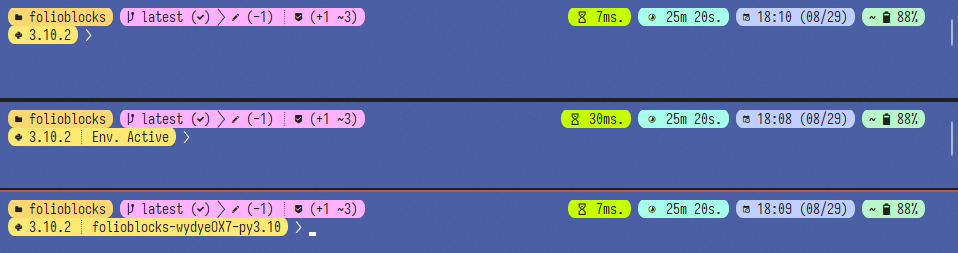
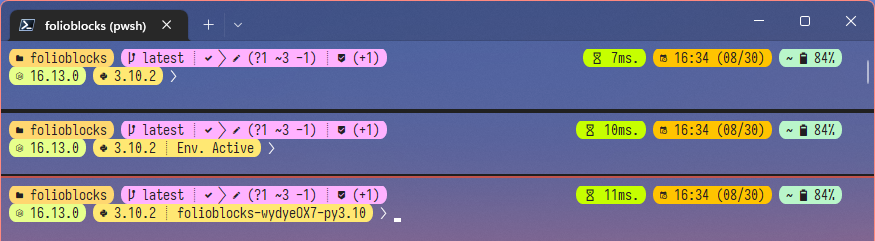
refactor!(*): change env vars prefixes + wakatime parsing function change from `toDecimal` to `int64`.
+ Changelogs:

theme.omp.json

- BREAKING CHANGE(env. vars): Env vars now has a prefix of `DISABLE_SEGMENT` instead of `SEGMENT_DISABLE`.
- project(node): allow hideable segment feature via env vars.
- project(segments): add consistent `trailing_diamond` space to respect the input buffer and other preceeding project segments.
- wakatime(segment): fix condition wherein `.CummulativeTotal.Seconds` is parsed as 0 when using cast function `toDecimal`, used `int64` instead.

package.json

- command: return a string of the command as reference (non-pipeable) instead of executing the command.

README:

- env vars: reflect BREAKING CHANGE to the documentation with ascending env var placements.
- showcase: renew showcase images with the latest upstream of the theme.

diff --git a/README.md b/README.md
@@ -30,22 +30,19 @@ _Designed to be compatible for translucent, dark-and-white influenced background
 
 The theme is designed to be **flexible** as possible by providing users a choice of filling up the following environment variables that allows for a _segment_ to **disappear** or **explicitly otherwise**.
 
-<div align="center">
-
-| Env. Var. (Append `SEGMENT_DISABLE` with prefixes `_`) | Type   | Default Value        | Functionality (Description)                                                                                                                                                                                                                                                                                                                    |
+| Env. Var. (Append `DISABLE_SEGMENT` with prefixes `_`) | Type   | Default Value        | Functionality (Description)                                                                                                                                                                                                                                                                                                                    |
 | ------------------------------------------------------ | ------ | -------------------- | ---------------------------------------------------------------------------------------------------------------------------------------------------------------------------------------------------------------------------------------------------------------------------------------------------------------------------------------------- |
 | \_BATTERY                                              | bool   | **False** _($false)_ | Hides the `BATTERY` segment found on the top-right of the prompt when value is set to **True** (_$true_).                                                                                                                                                                                                                                      |
 | \_DTIME                                                | bool   | **False** _($false)_ | Hides the `DTIME` segment found on the top-right of the prompt when the value is set to **True** (_$true_).                                                                                                                                                                                                                                    |
-| \_PROJECT_PYTHON                                       | bool   | **False** _($false)_ | Hides the `PYTHON` segment found on the bottom-left prompt along with the **input buffer** when the value is set to **True** (_$true_). This ignores the value of `SEGMENT_DISABLE_PROJECT_PYTHON_VENV`.                                                                                                                                       |
+| \_PROJECT_NODE                                         | bool   | **False** _($false)_ | Hides the `NODE` segment found on the bottom-left prompt along with the **input buffer** when the value is set to **True** (_$true_).                                                                                                                                                                                                          |
+| \_PROJECT_PYTHON                                       | bool   | **False** _($false)_ | Hides the `PYTHON` segment found on the bottom-left prompt along with the **input buffer** when the value is set to **True** (_$true_). This ignores the value of `DISABLE_SEGMENT_PROJECT_PYTHON_VENV`.                                                                                                                                       |
 | \_PROJECT_PYTHON_VENV                                  | bool   | **False** _($false)_ | Hides the `VENV` string display after `venv` detection when the value is set to **True** (_$true_). This ignores the value of `SEGMENT_PROJECT_PYTHON_ACTIVE_VENV_STR`.                                                                                                                                                                        |
-| \_TRANSIENT                                            | bool   | **False** _($false)_ | Completely hides the transient segment that contains previous command's return code and execution time when the value is set to `True`. This ignores the value of `SEGMENT_DISABLE_TRANSIENT_EXEC_TIME`.                                                                                                                                       |
-| \_PYTHON_ACTIVE_VENV_STR                               | string | None                 | Alternatively replaces the name of the `venv` that is currently activated from the prompt. This is useful when the length of the name disrespects the space of your input buffer.                                                                                                                                                              |
 | \_PRIMARY_EXEC_TIME                                    | bool   | **False** _($false)_ | Hides the `execution time` that is shown (in the primary prompt, _top-right_) after a command has been executed.                                                                                                                                                                                                                               |
+| \_TRANSIENT                                            | bool   | **False** _($false)_ | Completely hides the transient segment that contains previous command's return code and execution time when the value is set to `True`. This ignores the value of `DISABLE_SEGMENT_TRANSIENT_EXEC_TIME`.                                                                                                                                       |
 | \_TRANSIENT_EXEC_TIME                                  | bool   | **False** _($false)_ | Hides the `execution time` of the the transient prompt based on the recent command before the transient prompt.                                                                                                                                                                                                                                |
 | \_WAKATIME                                             | bool   | **False** _($false)_ | Hides the `WAKATIME` segment. Note that the segment is still active when `WAKATIME_API_KEY` is valid to be queued for new data. This feature is only useful when you wanted to hide the segment when the prompt's width makes the prompt display undesirable, but still wants it to be accessible later without reconfiguring your `$PROFILE`. |
-| WAKATIME_API_KEY                                       | string | None                 | The string that contains the API key that can make the prompt engine queue for new data for every `CACHE_TIMEOUT`.                                                                                                                                                                                                                             |
-
-</div>
+| **SEGMENT_PROJECT**<br>PYTHON_ACTIVE_VENV_STR          | string | None                 | Alternatively replaces the name of the `venv` that is currently activated from the prompt. This is useful when the length of the name disrespects the space of your input buffer.                                                                                                                                                              |
+| **WAKATIME\_**<br>API_KEY                              | string | None                 | The string that contains the API key that can make the prompt engine queue for new data for every `CACHE_TIMEOUT`.                                                                                                                                                                                                                             |
 
 #### Notes to Consider
 
@@ -56,11 +53,11 @@ The theme is designed to be **flexible** as possible by providing users a choice
 
 ## Showcase
 
-Please understood that the theme may look different depending on your configuration such as the font ligatures embedded on your custom font, your prompt and other factors that affects the visuals of your prompt. Please see [my dotfiles](https://github.com/CodexLink/dotfiles-configs-archive) and check the folder `dist/font` if you want to get the same feeling and font + glyphs rendering.
+Please understood that the theme may look different depending on your configuration such as the font ligatures embedded on your custom font, your prompt and other factors that affects the visuals of your prompt. Please see [my dotfiles](https://github.com/CodexLink/dotfiles-configs-archive) and check the folder `dist/font` and `cli/win32` if you want to get the same feeling (ie. command-hinting, command-shortcut, etc.) and font + glyphs rendering.
 
 > Note that my custom font has issues in regards to single-width and double-width for other icons, some icons went smaller than what is being rendered from the `oh-my-posh` config export renderer.
 
-**Also please note**, the screenshots provided here has the theme version of commit [91cc394](https://github.com/CodexLink/chips.omp.json/commit/91cc394f1bcca0fa0103b6fa7156edd83ae586b6). Next commit will further re-new all screeenshots with same terminal width size.
+**Also please note**, the screenshots provided here has a parsing error for the wakatime, rendering the wakatime segment have a same cyan-like color when it shouldn't be, the section showcasing the `On-Spot Prompt Adjustment` and its preceeding sections shows the fixed color render for the wakatime segment, where I just noticed and was able to fix it in `v1.0.0`.
 
 ### Environment Variable Render Variants
 
@@ -84,15 +81,17 @@ Please understood that the theme may look different depending on your configurat
 
 <div align="center">
 
-[![chips.omp.json ssh and root showcase #1](https://github.com/CodexLink/chips.omp.json/blob/latest/assets/highlight_ssh_and_root_variants_1.png)](https://ohmyposh.dev/docs/themes#chips)
-
-[![chips.omp.json ssh and root showcase #2](https://github.com/CodexLink/chips.omp.json/blob/latest/assets/highlight_ssh_and_root_variants_2.png)](https://ohmyposh.dev/docs/themes#chips)
+[![chips.omp.json ssh and root showcase](https://github.com/CodexLink/chips.omp.json/blob/latest/assets/highlight_ssh_and_root_variants.png)](https://ohmyposh.dev/docs/themes#chips)
 
 </div>
 
-### On-spot Prompt Adjustment
+### On-The-Spot Prompt Adjustment
 
 _Please note that this is also possible when modifying `$PROFILE`. Just reload the prompt with `. $PROFILE` and the changes will be reflected._
+
+Also note that I adlib this demonstration, more information and other hideable segments in the [Environment Variables section](#environment-variables).
+
+[![chips.omp.json on-the-spot env. change](https://github.com/CodexLink/chips.omp.json/blob/latest/assets/highlight_on_the_spot_env_change.png)](https://ohmyposh.dev/docs/themes#chips)
 
 ### Transient Prompt with Insights of Previous Command
 
